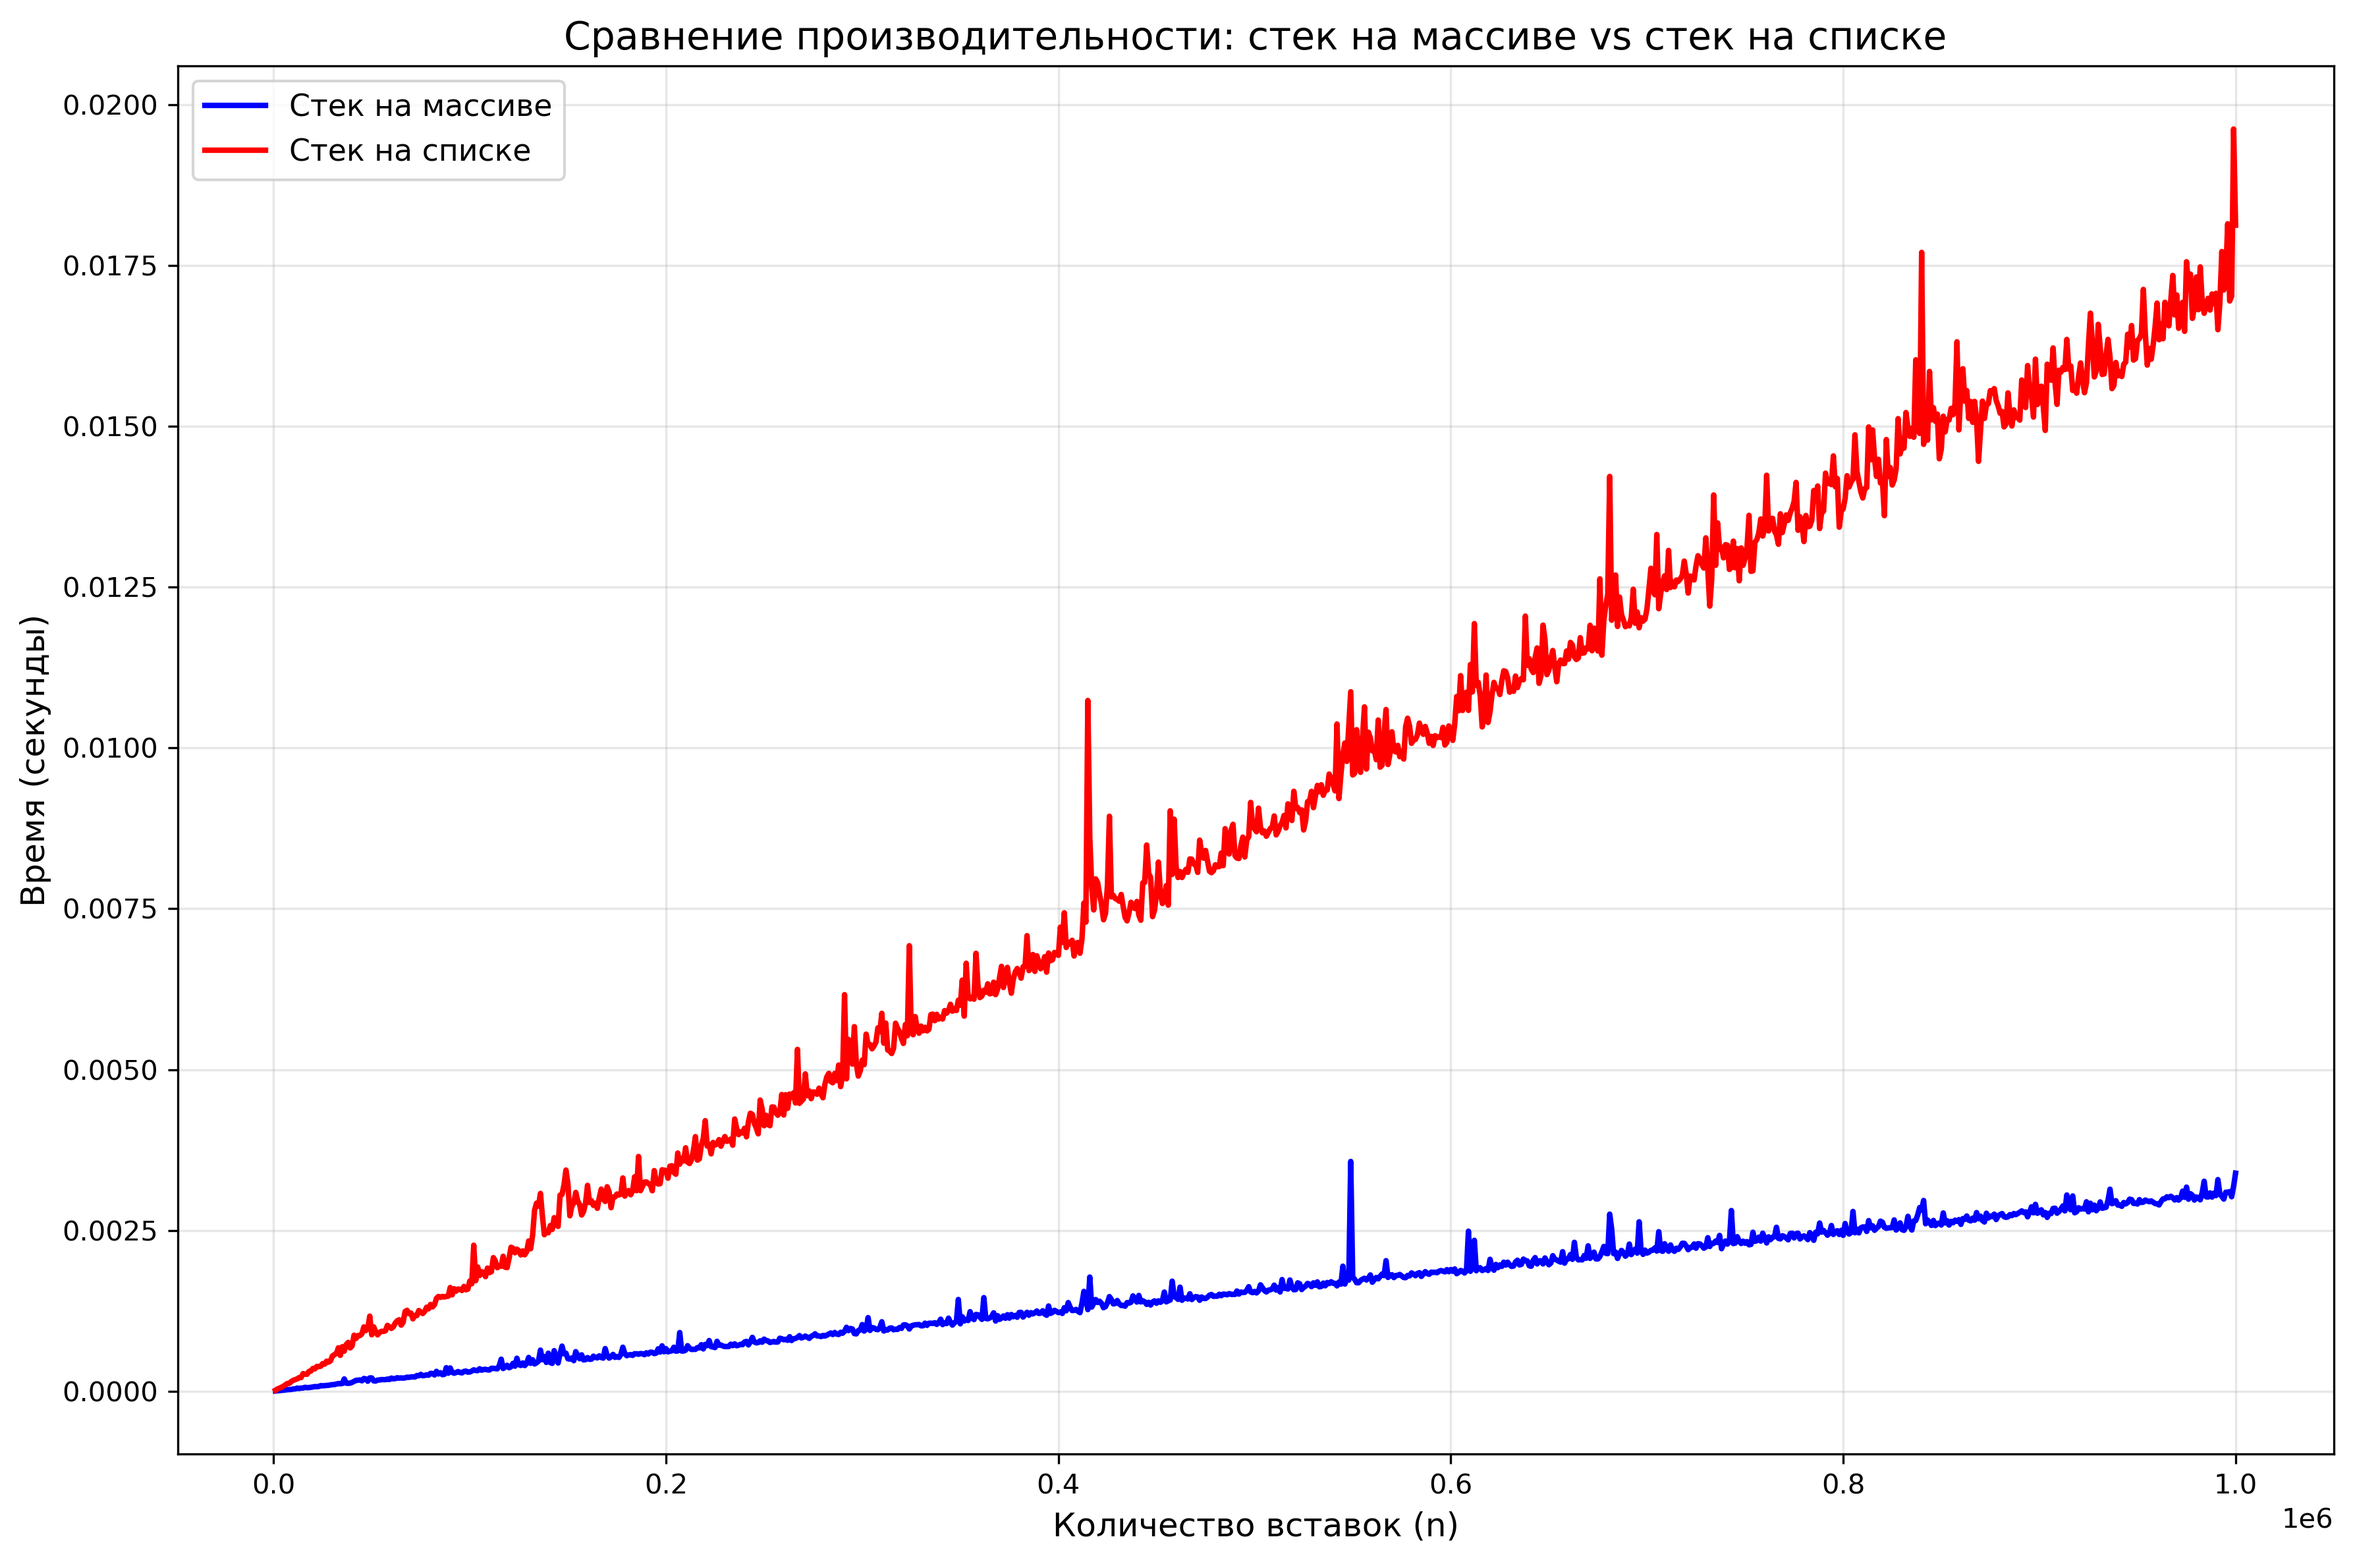
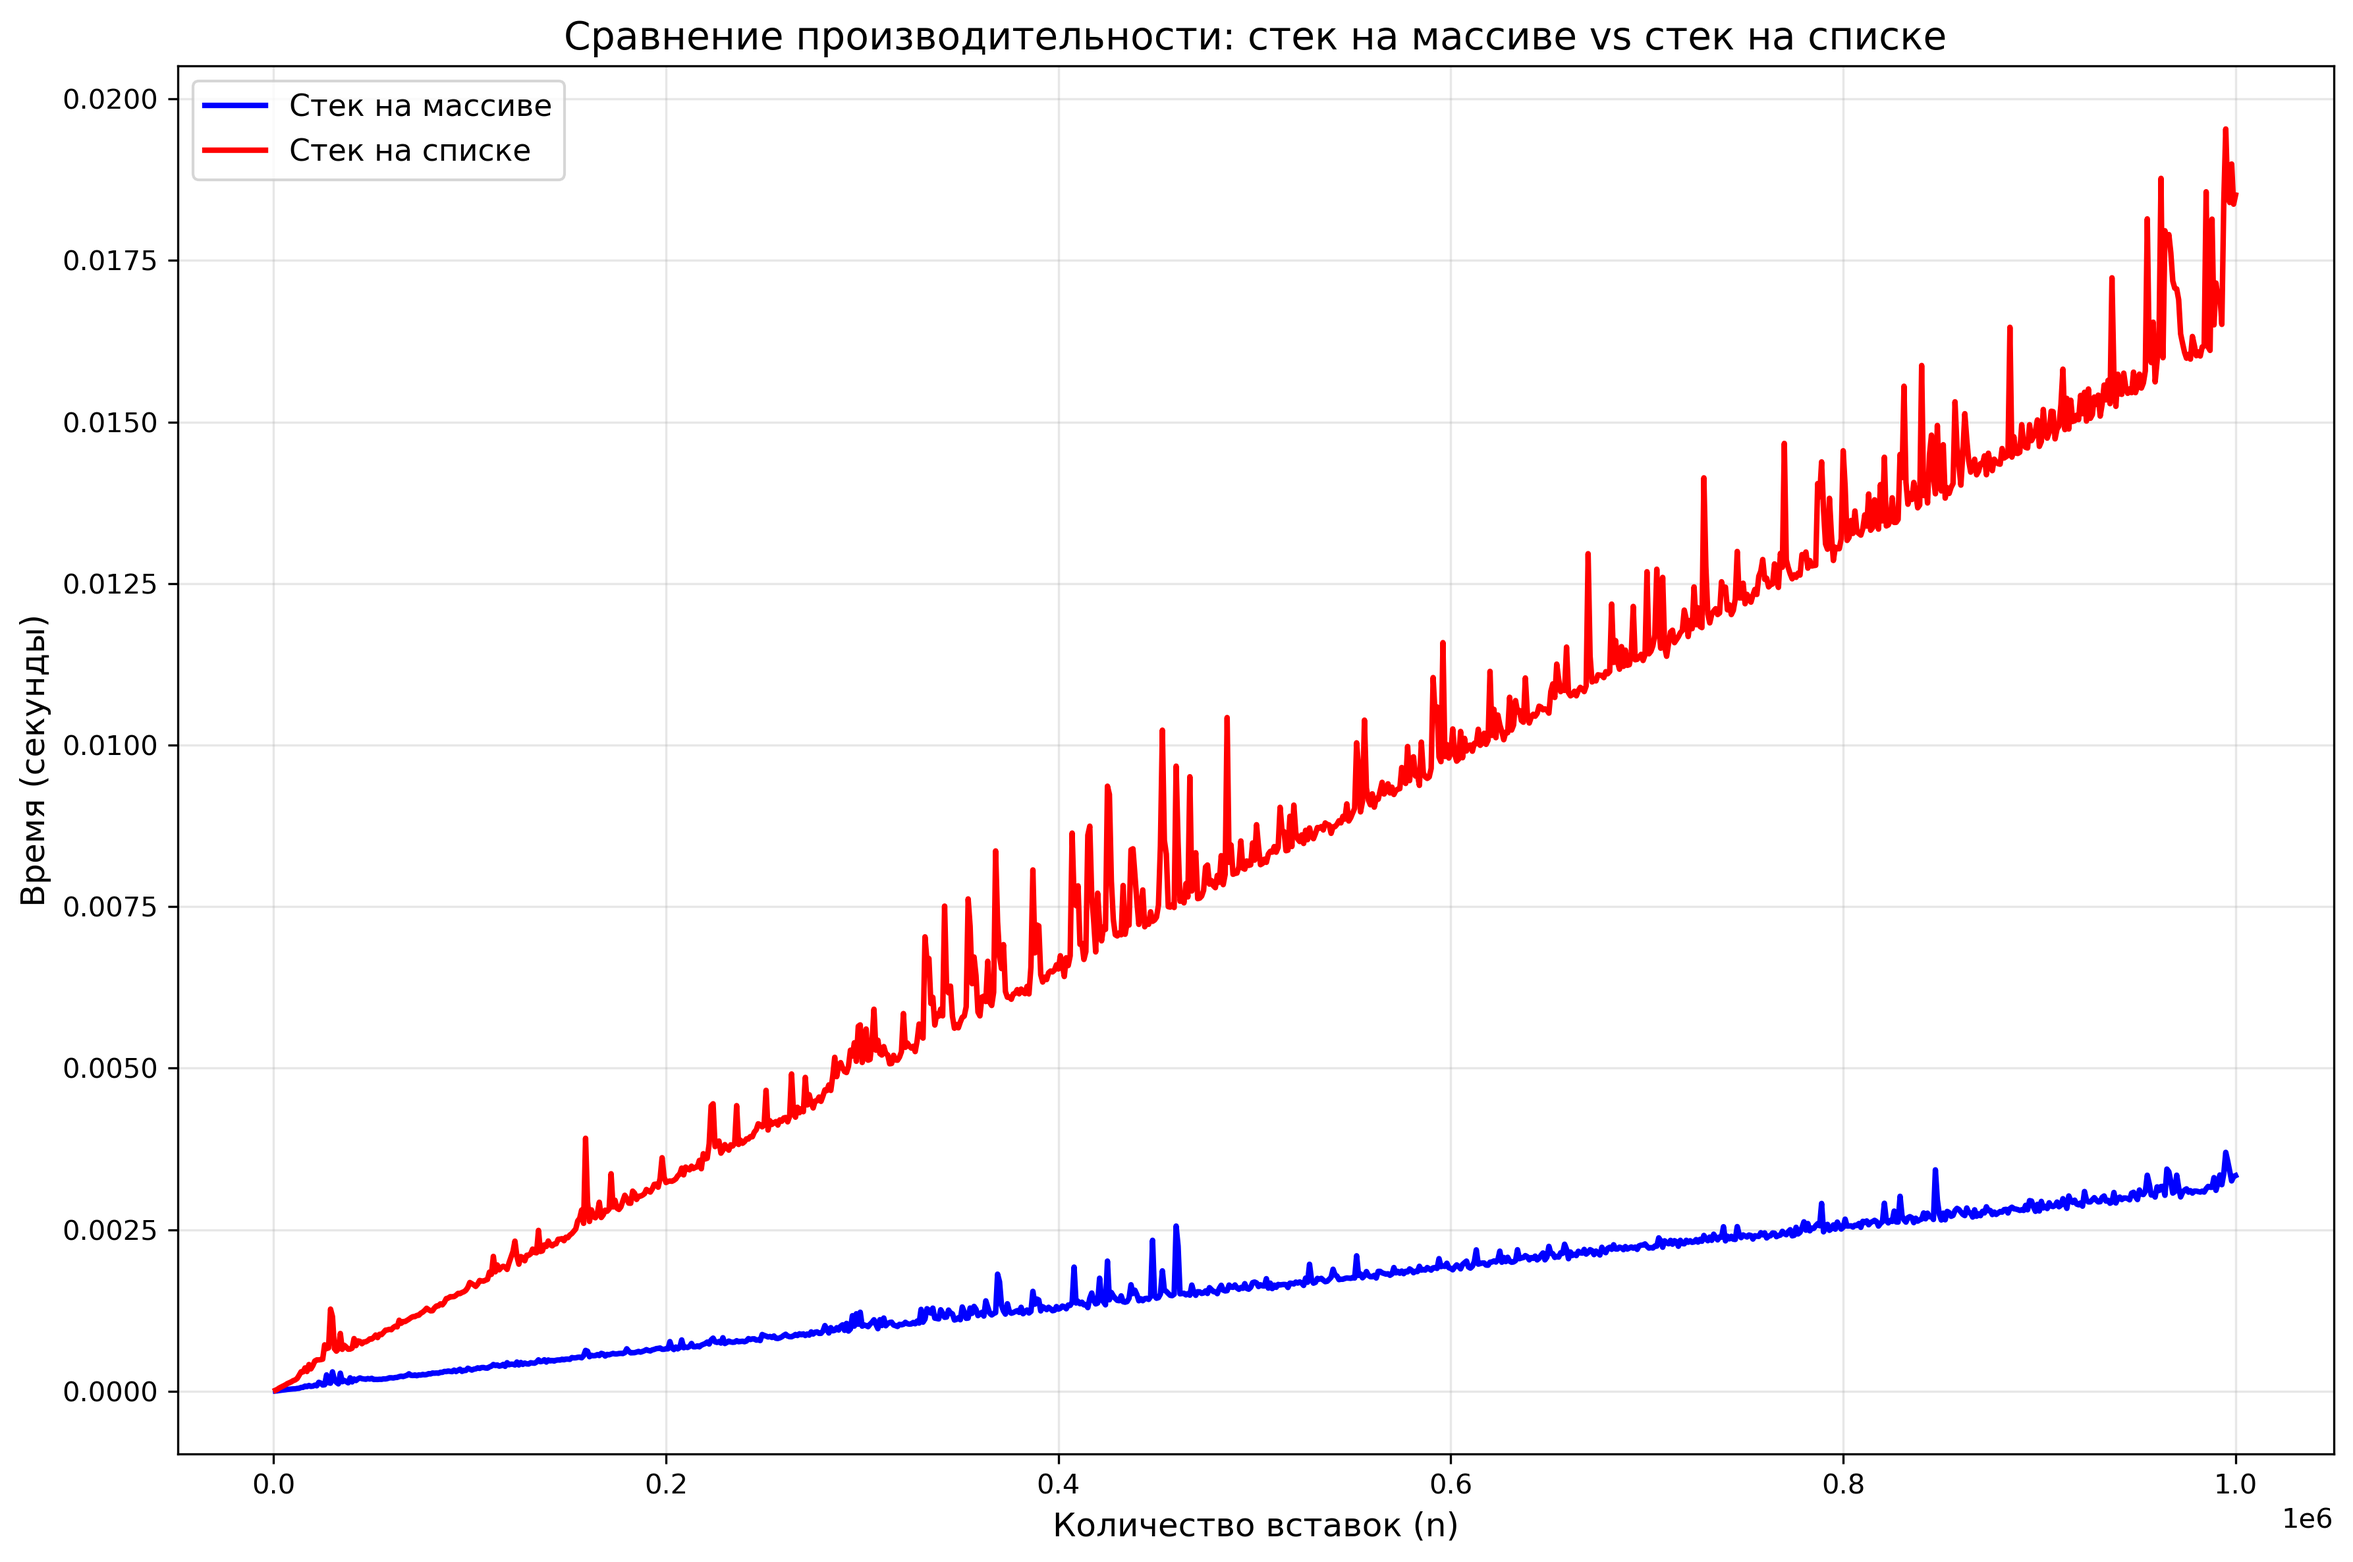
Added func array_stack_resize to dynamic_array_stack.c

diff --git a/dynamic_array_stack.c b/dynamic_array_stack.c
@@ -8,6 +8,18 @@ const int ARRAY_GROWTH_FACTOR = 2;
 const int ARRAY_SHRINK_FACTOR = 4;
 const int ARRAY_MIN_CAPACITY  = 1000;
 
+static void array_stack_resize(Stack* st, size_t new_capacity)
+{
+    if (!st || new_capacity == 0) return;
+    
+    void* new_data = realloc(st->data, new_capacity * st->element_size);
+    if (new_data)
+    {
+        st->data = new_data;
+        st->capacity = new_capacity;
+    }
+}
+
 Stack* array_stack_ctr(size_t size, size_t element_size)
 {
     Stack* st = (Stack*)calloc(1, sizeof(Stack));
@@ -45,11 +57,8 @@ int array_stack_push(Stack* st, void* buffer)
         size_t new_capacity = st->capacity * ARRAY_GROWTH_FACTOR;
         if (new_capacity < st->capacity) return STACK_ERROR; // переполнение
 
-        void* new_data = realloc(st->data, new_capacity * st->element_size);
-        if (!new_data) return STACK_ERROR;
-        
-        st->data = new_data;
-        st->capacity = new_capacity;
+        array_stack_resize(st, new_capacity);
+        if (st->size >= st->capacity) return STACK_ERROR; // проверка, что resize удался
     }
     
     // копируем новый элемент в конец массива
@@ -77,12 +86,7 @@ int array_stack_pop(Stack* st)
     if (st->size > 0 && st->size <= st->capacity / ARRAY_SHRINK_FACTOR && st->capacity > ARRAY_MIN_CAPACITY)
     {
         size_t new_capacity = st->capacity / ARRAY_GROWTH_FACTOR;
-        void* new_data = realloc(st->data, new_capacity * st->element_size);
-        if (new_data)
-        {
-            st->data     = new_data;
-            st->capacity = new_capacity;
-        }
+        array_stack_resize(st, new_capacity);
     }
 
     return STACK_OK;
